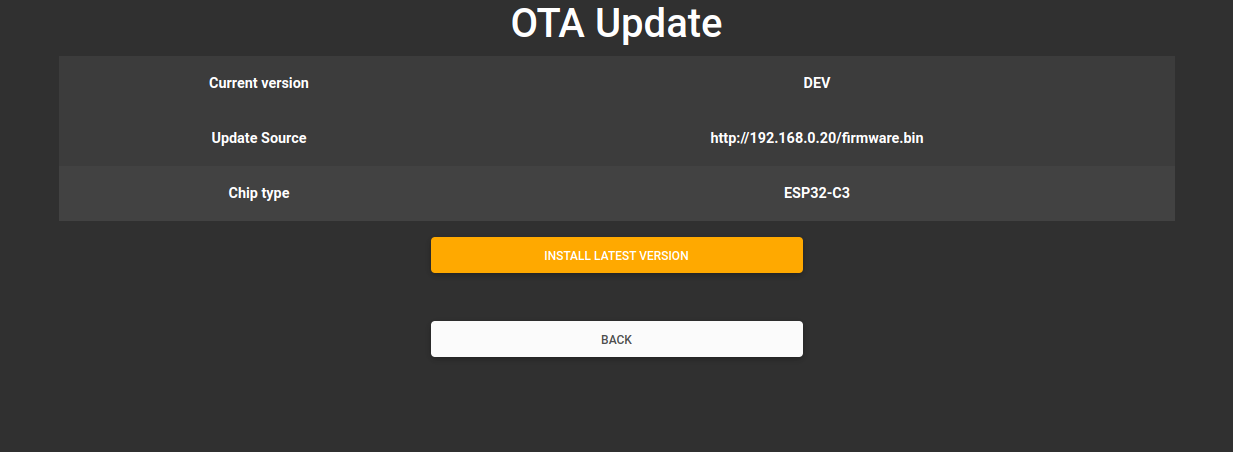
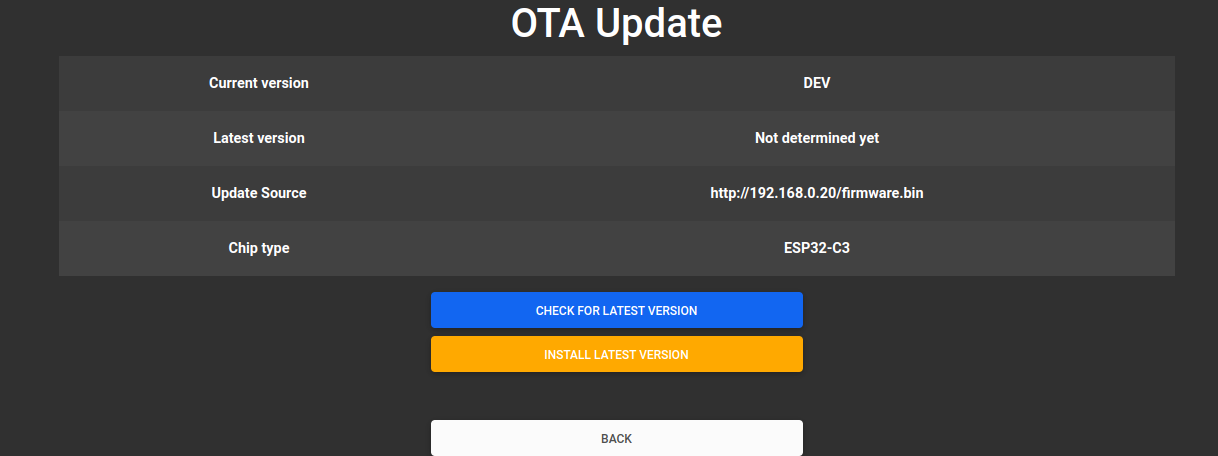
Improvements on custom url

diff --git a/src/urihandler/otahandler.c b/src/urihandler/otahandler.c
@@ -100,17 +100,38 @@ esp_err_t version_event_handler(esp_http_client_event_t *evt)
     return ESP_OK;
 }
 
+char *getOtaUrl()
+{
+    char *customUrl = NULL;
+
+    // Assuming the function get_config_param_str is defined elsewhere
+    get_config_param_str("ota_url", &customUrl);
+    if (customUrl != NULL && strlen(customUrl) > 0)
+    {
+        printf("Custom Url found '%s'\n", customUrl);
+        return customUrl;
+    }
+    else
+    {
+        char url[strlen(DEFAULT_URL) + strlen(chip_type) + 20];
+        strcpy(url, DEFAULT_URL);
+        strcat(url, chip_type);
+        strcat(url, "/");
+        strcat(url, "firmware.bin");
+        customUrl = malloc(strlen(url) + 1);
+        strcpy(customUrl, url);
+        return customUrl;
+    }
+}
+
 void ota_task(void *pvParameter)
 {
 
     data_length = 0;
     content_length = 0;
     threshold = 0;
-    char url[strlen(DEFAULT_URL) + 50];
-    strcpy(url, DEFAULT_URL);
-    strcat(url, chip_type);
-    strcat(url, "/");
-    strcat(url, "firmware.bin");
+    char *url = getOtaUrl();
+
     ESP_LOGI(TAG, "OTA update started with Url: '%s'", url);
 
     char tmp[200] = "OTA update started with Url: '";
@@ -136,6 +157,7 @@ void ota_task(void *pvParameter)
     {
         appendToLog("OTA update failed! Device will reboot.", "table-danger");
     }
+    free(url);
     finished = true;
     vTaskDelete(NULL);
 }
@@ -228,7 +250,6 @@ esp_err_t ota_download_get_handler(httpd_req_t *req)
     extern const char ota_start[] asm("_binary_ota_html_start");
     extern const char ota_end[] asm("_binary_ota_html_end");
     const size_t ota_html_size = (ota_end - ota_start);
-    char *customUrl = NULL;
 
     char *versionCheckVisibilityTable = "table-row";
     char *versionCheckVisibility = "block";
@@ -242,23 +263,7 @@ esp_err_t ota_download_get_handler(httpd_req_t *req)
 
     ESP_LOGI(TAG, "Chip Type: %s\n", chip_type);
 
-    get_config_param_str("ota_url", &customUrl);
-    if (customUrl != NULL && strlen(customUrl) > 0)
-    {
-        ESP_LOGI(TAG, "Custom Url found '%s'", customUrl);
-        versionCheckVisibility = "none";
-        versionCheckVisibilityTable = "none";
-    }
-    else
-    {
-        char url[strlen(DEFAULT_URL) + 50];
-        strcpy(url, DEFAULT_URL);
-        strcat(url, chip_type);
-        strcat(url, "/");
-        strcat(url, "firmware.bin");
-        customUrl = malloc(strlen(url) + 1); 
-        strcpy(customUrl, url);   
-    }
+    char *customUrl = getOtaUrl();
 
     char *ota_page = malloc(ota_html_size + strlen(VERSION) + strlen(customUrl) + strlen(latest_version) + strlen(versionCheckVisibility) + strlen(versionCheckVisibilityTable) + strlen(chip_type));
     sprintf(ota_page, ota_start, VERSION, versionCheckVisibilityTable, latest_version, customUrl, chip_type, versionCheckVisibility);
